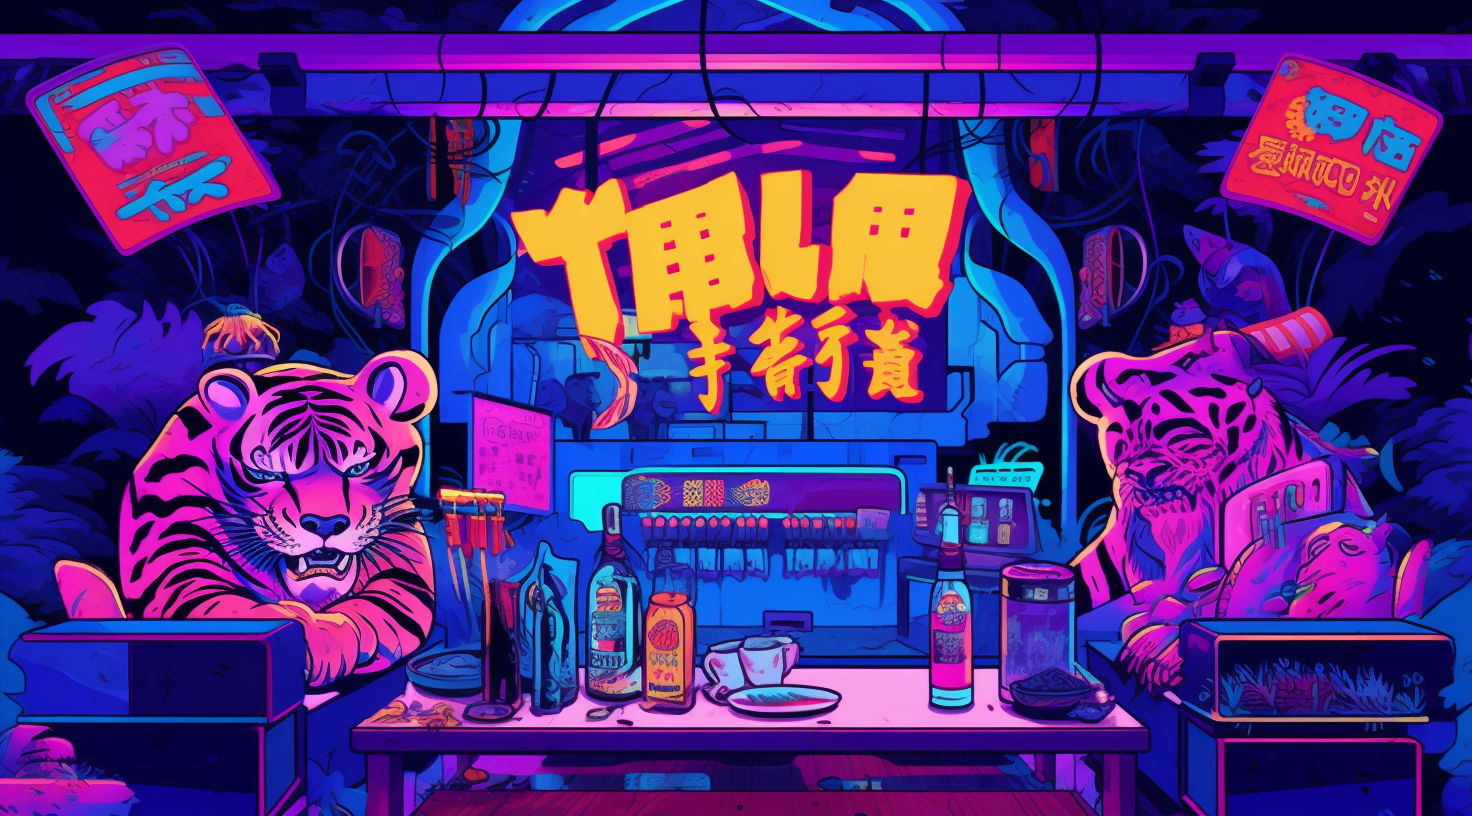
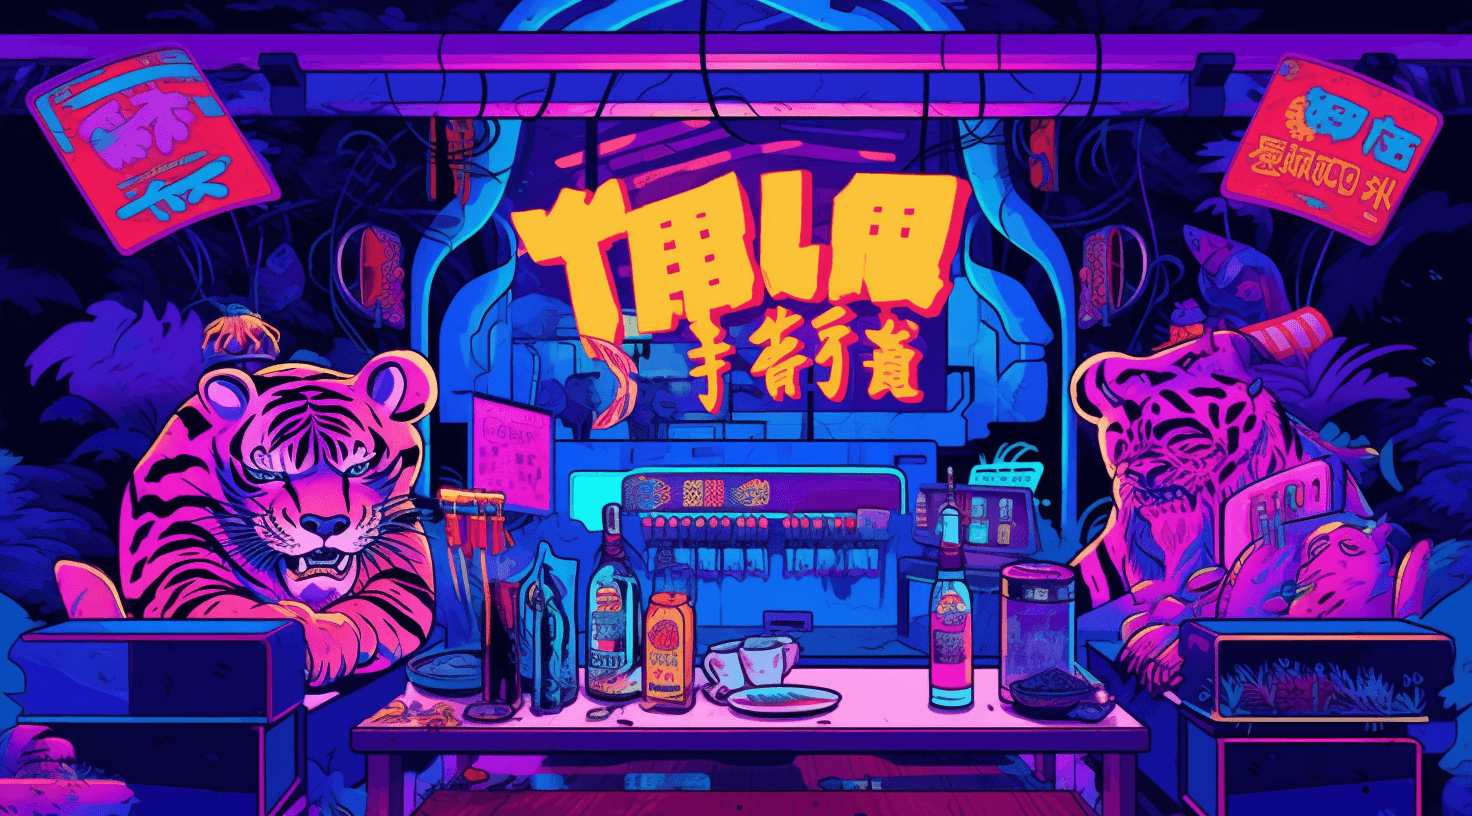
壓縮照片大小、微調菜單rwd、登入頁&訂位跳轉頁btn

Changed region(s): [[0.4062, 0.8272, 0.4688, 0.8578], [0.3125, 0.5821, 0.3438, 0.6127]]

diff --git a/frontend/src/scss/component/_bookingJumpPage.scss b/frontend/src/scss/component/_bookingJumpPage.scss
@@ -327,8 +327,9 @@
         display: none;
 
         @include pad {
-          display: block;
+          display: flex;
           margin-bottom: 10%;
+          justify-content: center;
           .bookingJumpPageBtn {
             background-color: $major-color-3;
             border-radius: 20px;
@@ -341,6 +342,7 @@
             padding: 0.9rem 4rem;
             text-transform: uppercase;
             transition: transform 80ms ease-in;
+            width: 60%;
 
             &:active {
               transform: scale(0.95);

diff --git a/frontend/src/pages/BookingJumpPage.jsx b/frontend/src/pages/BookingJumpPage.jsx
@@ -198,7 +198,7 @@ const BookingJumpPage = () => {
               </div> */}
               <div className="rwdContainer">
                 <Link to="/" className="bookingJumpPageBtn">
-                  河林
+                  回首頁
                 </Link>
               </div>
             </form>

diff --git a/frontend/public/index.html b/frontend/public/index.html
@@ -6,7 +6,7 @@
   <meta name="viewport" content="width=device-width, initial-scale=1" />
   <meta name="theme-color" content="#000000" />
   <meta name="description" content="Web site created using create-react-app" />
-  <title>React App</title>
+  <title>HOLIN BAR</title>
 </head>
 
 <body>

diff --git a/frontend/src/scss/component/_menu.scss b/frontend/src/scss/component/_menu.scss
@@ -70,7 +70,7 @@
         .carousel-item__image {
           @include mobile {
             width: 100%;
-            -webkit-flex-basis: 90%;
+            -webkit-flex-basis: 100%;
             background-position: initial;
           }
         }

diff --git a/frontend/src/css/signup.css b/frontend/src/css/signup.css
@@ -275,6 +275,10 @@ video {
     outline: none;
 }
 
+.btn:hover {
+    background-color: var(--major-color-3);
+}
+
 .form {
     background-color: var(--major-color-1);
     display: flex;
